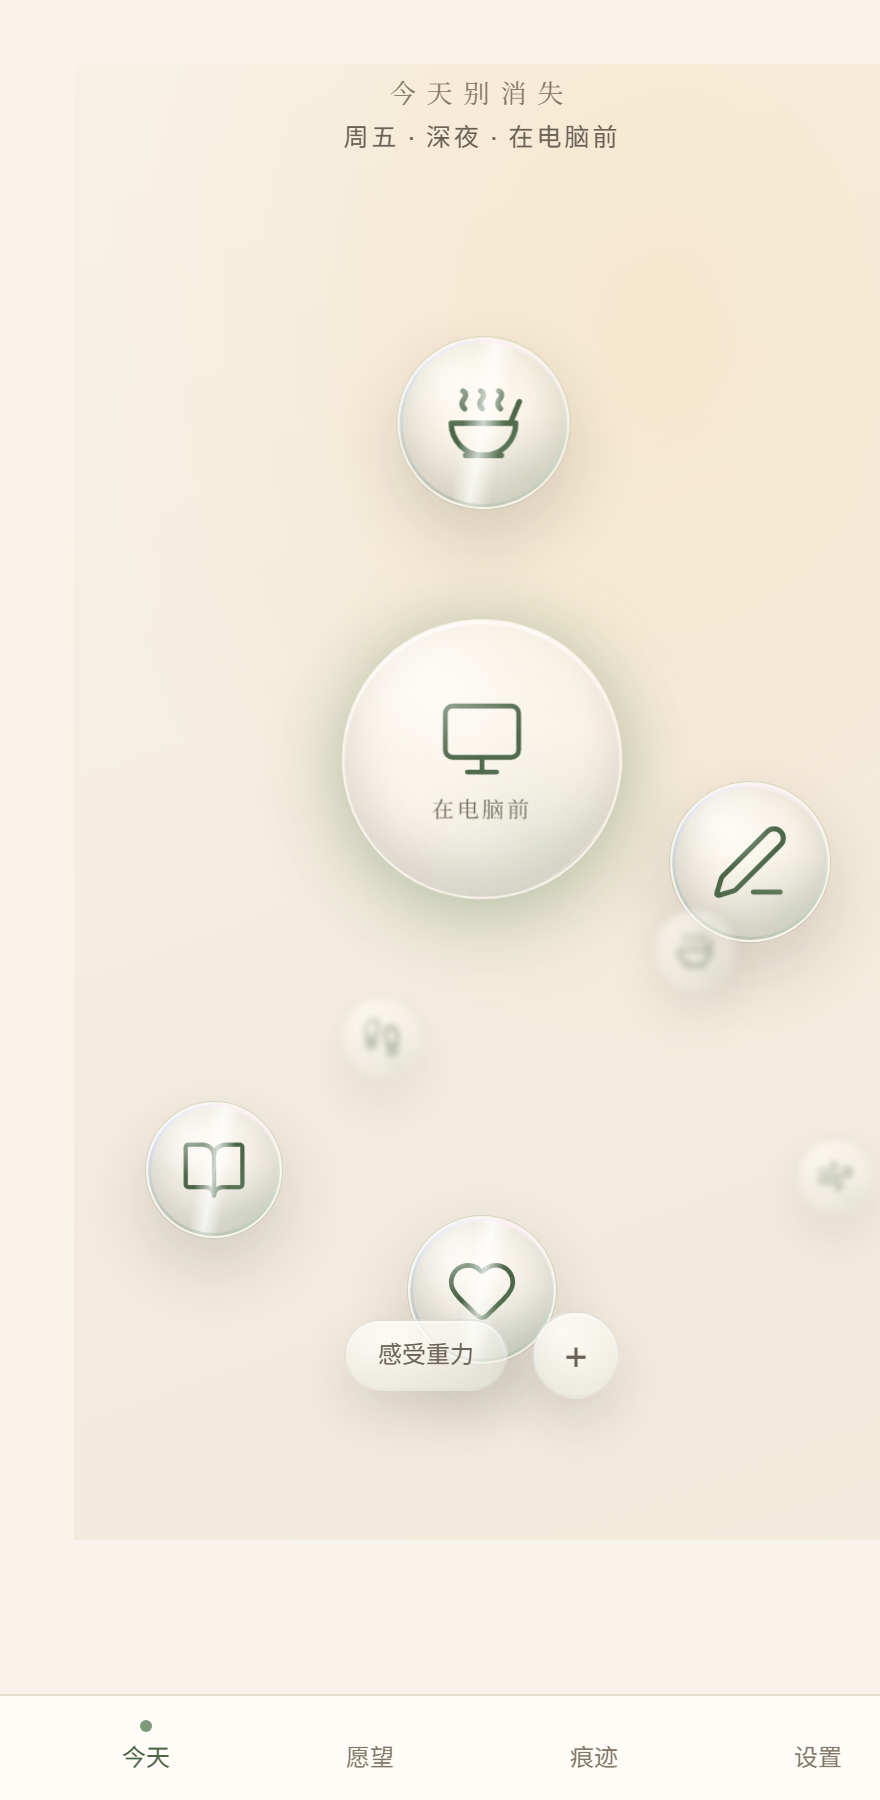
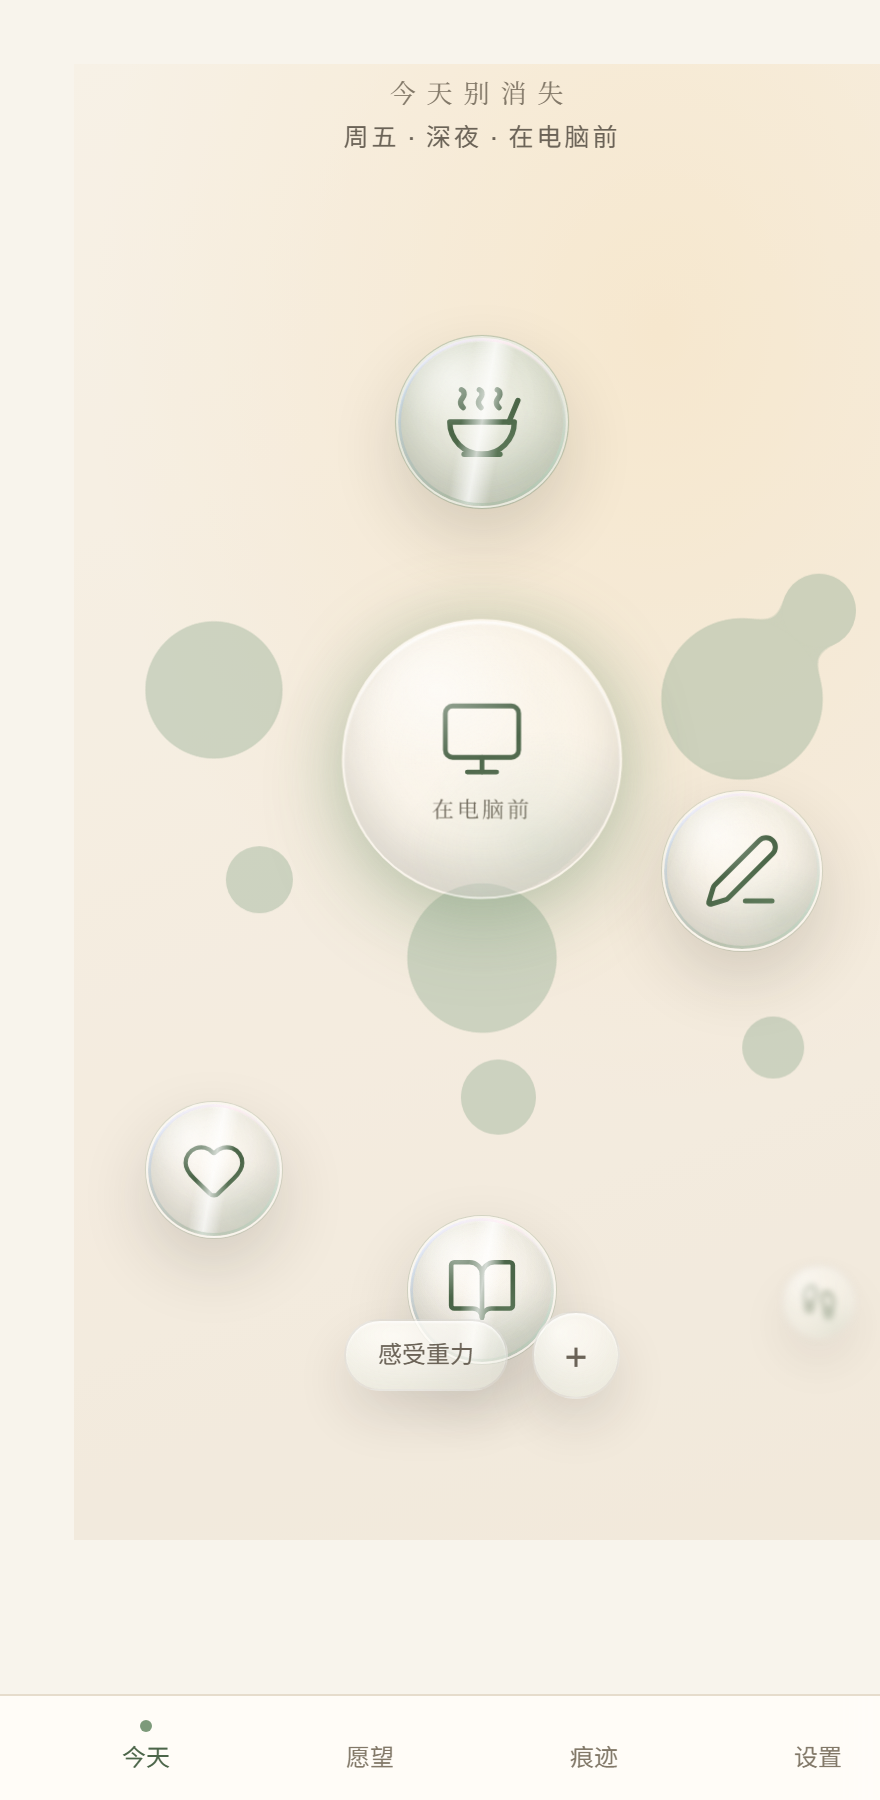
glass 4: Gooey coalesce — liquid metaballs under the glass
- #tdd-goo (blur + alpha threshold); a .goo-layer of soft accent blobs synced
  under each bubble fuses into liquid bridges when bubbles near, parts as they
  drift away. Behind the glass at 0.5 opacity
- 214 tests; typecheck clean; build green

diff --git a/app/globals.css b/app/globals.css
@@ -364,6 +364,23 @@ body {
   .glass-glint::before { animation: none; opacity: 0; }
 }
 
+/* Liquid metaballs under the glass: soft blobs that fuse when bubbles near. */
+.goo-layer {
+  position: absolute;
+  inset: 0;
+  pointer-events: none;
+  filter: url(#tdd-goo);
+  opacity: 0.5;
+}
+.goo-blob {
+  position: absolute;
+  left: 0;
+  top: 0;
+  border-radius: 9999px;
+  background: color-mix(in srgb, var(--accent) 70%, var(--surface));
+  will-change: transform;
+}
+
 /* The central orb breathes a soft halo of the accent — the sensed scene glows. */
 .orb-glow {
   box-shadow:

diff --git a/components/home/BubbleField.tsx b/components/home/BubbleField.tsx
@@ -53,6 +53,7 @@ export default function BubbleField() {
 
   const wrapRef = useRef<HTMLDivElement>(null);
   const elsRef = useRef<Record<string, HTMLButtonElement | null>>({});
+  const blobsRef = useRef<Record<string, HTMLSpanElement | null>>({});
   const bodiesRef = useRef<Body[]>([]);
   const homesRef = useRef<Record<string, { x: number; y: number }>>({});
   const tiltRef = useRef<{ gamma: number | null; beta: number | null } | null>(null);
@@ -188,6 +189,8 @@ export default function BubbleField() {
         const ox = px * z * 26; // near bubbles parallax more
         const oy = py * z * 26;
         node.style.transform = `translate3d(${b.x - b.r + ox}px, ${b.y - b.r + oy}px, 0)`;
+        const blob = blobsRef.current[b.id];
+        if (blob) blob.style.transform = `translate3d(${b.x - b.r + ox}px, ${b.y - b.r + oy}px, 0)`;
       }
       rafRef.current = requestAnimationFrame(frame);
     }
@@ -249,6 +252,17 @@ export default function BubbleField() {
 
   return (
     <div ref={wrapRef} className="relative h-[72dvh] w-full">
+      {/* liquid metaball layer — soft blobs under the glass that fuse when close */}
+      <div className="goo-layer" aria-hidden>
+        {shown.map((b) => (
+          <span
+            key={`goo_${b.id}`}
+            ref={(n) => { blobsRef.current[b.id] = n; }}
+            className="goo-blob"
+            style={{ width: b.r * 2, height: b.r * 2 }}
+          />
+        ))}
+      </div>
       {/* drifting glass bubbles */}
       {shown.map((b) => (
         <button

diff --git a/components/home/GlassFilters.tsx b/components/home/GlassFilters.tsx
@@ -26,6 +26,17 @@ export default function GlassFilters() {
             yChannelSelector="G"
           />
         </filter>
+        {/* Gooey metaballs — blur + alpha threshold so near blobs fuse like liquid. */}
+        <filter id="tdd-goo">
+          <feGaussianBlur in="SourceGraphic" stdDeviation="7" result="blur" />
+          <feColorMatrix
+            in="blur"
+            type="matrix"
+            values="1 0 0 0 0  0 1 0 0 0  0 0 1 0 0  0 0 0 19 -8"
+            result="goo"
+          />
+          <feBlend in="SourceGraphic" in2="goo" />
+        </filter>
       </defs>
     </svg>
   );

diff --git a/docs/TIMELINE.md b/docs/TIMELINE.md
@@ -4,10 +4,11 @@ _Auto-generated from git (`scripts/gen-timeline.mjs`). Notion-loadable: import o
 
 Repo: `[email redacted]:y344shi/luminous.git`  ·  app at `dreams/seize_the_day`
 
-## branch `luminous-craft` — 49 commits
+## branch `luminous-craft` — 50 commits
 
 | date | commit | change |
 | --- | --- | --- |
+| 2026-06-26 | `8b43bc7` | craft 3: Gentle haptics + optional soft chime on complete |
 | 2026-06-26 | `48806df` | craft 2: Warm-paper / field-notebook Home (PaperHome) |
 | 2026-06-26 | `43f77d8` | craft 1: Committed-history + richer Notion-loadable timeline |
 | 2026-06-26 | `a714805` | Docs: regenerate TIMELINE.md |
@@ -58,10 +59,11 @@ Repo: `[email redacted]:y344shi/luminous.git`  ·  app at `dreams/seize_the_day`
 | 2026-06-25 | `4643eb6` | Add project guide + overnight tick playbook for autonomous cycles |
 | 2026-06-25 | `730b76f` | Cycle 1: 《今天别消失》web MVP — full core loop alive |
 
-## branch `luminous-glass` — 49 commits
+## branch `luminous-glass` — 50 commits
 
 | date | commit | change |
 | --- | --- | --- |
+| 2026-06-26 | `4016f7b` | glass 3: Depth field (z → progressive blur + parallax) |
 | 2026-06-26 | `8c630f9` | glass 2: Caustic edge light (hue-shifting rim + sweeping glint) |
 | 2026-06-26 | `20f997c` | glass 1: Liquid-glass refraction (SVG turbulence + displacement) |
 | 2026-06-26 | `a714805` | Docs: regenerate TIMELINE.md |
@@ -112,10 +114,11 @@ Repo: `[email redacted]:y344shi/luminous.git`  ·  app at `dreams/seize_the_day`
 | 2026-06-25 | `4643eb6` | Add project guide + overnight tick playbook for autonomous cycles |
 | 2026-06-25 | `730b76f` | Cycle 1: 《今天别消失》web MVP — full core loop alive |
 
-## branch `luminous-sense` — 50 commits
+## branch `luminous-sense` — 51 commits
 
 | date | commit | change |
 | --- | --- | --- |
+| 2026-06-26 | `c119f18` | sense 3: Floating nav layer — real bearing to the nearest cafe (Overpass) |
 | 2026-06-26 | `711d4c0` | sense: fix shoot-home port band (Chrome ERR_UNSAFE_PORT on 3659) + valid sense.png |
 | 2026-06-26 | `beceffd` | sense 2: Parallax depth scene layer (pointer / device-tilt) |
 | 2026-06-26 | `ac4c13b` | sense 1: Scene wallpaper — richer mesh gradients + curated-image seam |

diff --git a/docs/iteration-log.md b/docs/iteration-log.md
@@ -943,3 +943,11 @@ What still feels wrong / not done yet:
   progressive blur (`blur((1-z)*2.6px)`) and pointer/device-tilt **parallax**
   (near bubbles shift more). Crisp in front, soft in back. Reduced-motion: static.
 - 214 tests green; typecheck + build clean. Branch luminous-glass.
+
+---
+
+## glass 4 (A4): Gooey coalesce (liquid metaballs)
+- New `#tdd-goo` filter (feGaussianBlur + alpha-threshold feColorMatrix). A
+  `.goo-layer` of soft accent `.goo-blob`s is synced under the glass bubbles each
+  frame; when bubbles drift/collide close, their blobs fuse into liquid bridges and
+  part again. Layer sits behind the glass at 0.5 opacity. 214 tests green.

diff --git a/docs/overnight-plan.md b/docs/overnight-plan.md
@@ -21,7 +21,7 @@ push the branch. Small > grand. Revert rather than leave red.
 - [x] A1. Real refraction: SVG `feTurbulence`+`feDisplacementMap` (`GlassFilters` `#tdd-liquid`) warps a drifting caustic highlight inside each bubble + the orb (`.glass-refract`), reduced-motion safe. _(glass 1)_
 - [x] A2. Caustic edge light: the iridescent rim slowly hue-shifts (`tdd-rim-hue`) + a bright specular **glint** sweeps across each bubble + the orb (`.glass-glint`, staggered via `--gd`); reduced-motion safe. _(glass 2)_
 - [x] A3. Depth field: each bubble gets a `z` (primaries near/crisp, lesser ones far) → progressive blur + size, and pointer/tilt **parallax** scaled by z (near moves more). Reduced-motion → static. _(glass 3)_
-- [ ] A4. Gooey coalesce: SVG goo filter so slow-colliding bubbles merge/separate like liquid.
+- [x] A4. Gooey coalesce: an SVG `#tdd-goo` (blur + alpha threshold) on a metaball layer of soft accent blobs synced under each bubble — they fuse into liquid bridges when bubbles drift close, separate as they part. _(glass 4)_
 - [ ] A5. Dreamier ambience: slower drift, soft bloom, faint drifting light motes, gentle vignette.
 - [ ] A6. Gyro polish: smoothed tilt→gravity, "shake to scatter", settle-to-cluster easing.
 - [ ] A7. Page-load choreography: bubbles condense out of light into place (staggered).